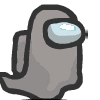
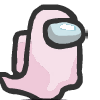
TOU SUPPORT

diff --git a/src/common/cosmetics.ts b/src/common/cosmetics.ts
@@ -172,7 +172,6 @@ import skin16 from "../static/skins/16.png"; // @ts-ignore
 import skin17 from "../static/skins/17.png"; // @ts-ignore
 import skin18 from "../static/skins/18.png"; // @ts-ignore
 
-
 // @ts-ignore
 import none_player0 from "../static/players/none/player/0.png"; // @ts-ignore
 import none_player1 from "../static/players/none/player/1.png"; // @ts-ignore
@@ -238,6 +237,13 @@ import ToU_player16 from "../static/players/ToU/player/16.png"; // @ts-ignore
 import ToU_player17 from "../static/players/ToU/player/17.png"; // @ts-ignore
 import ToU_player18 from "../static/players/ToU/player/18.png"; // @ts-ignore
 import ToU_player19 from "../static/players/ToU/player/19.png"; // @ts-ignore
+import ToU_player20 from "../static/players/ToU/player/20.png"; // @ts-ignore
+import ToU_player21 from "../static/players/ToU/player/21.png"; // @ts-ignore
+import ToU_player22 from "../static/players/ToU/player/22.png"; // @ts-ignore
+import ToU_player23 from "../static/players/ToU/player/23.png"; // @ts-ignore
+import ToU_player24 from "../static/players/ToU/player/24.png"; // @ts-ignore
+import ToU_player25 from "../static/players/ToU/player/25.png"; // @ts-ignore
+import ToU_player26 from "../static/players/ToU/player/26.png"; // @ts-ignore
 
 import OtherRoles_player0 from "../static/players/OtherRoles/player/0.png"; // @ts-ignore
 import OtherRoles_player1 from "../static/players/OtherRoles/player/1.png"; // @ts-ignore
@@ -335,6 +341,13 @@ import ToU_ghost16 from "../static/players/ToU/ghost/16.png"; // @ts-ignore
 import ToU_ghost17 from "../static/players/ToU/ghost/17.png"; // @ts-ignore
 import ToU_ghost18 from "../static/players/ToU/ghost/18.png"; // @ts-ignore
 import ToU_ghost19 from "../static/players/ToU/ghost/19.png"; // @ts-ignore
+import ToU_ghost20 from "../static/players/ToU/ghost/20.png"; // @ts-ignore
+import ToU_ghost21 from "../static/players/ToU/ghost/21.png"; // @ts-ignore
+import ToU_ghost22 from "../static/players/ToU/ghost/22.png"; // @ts-ignore
+import ToU_ghost23 from "../static/players/ToU/ghost/23.png"; // @ts-ignore
+import ToU_ghost24 from "../static/players/ToU/ghost/24.png"; // @ts-ignore
+import ToU_ghost25 from "../static/players/ToU/ghost/25.png"; // @ts-ignore
+import ToU_ghost26 from "../static/players/ToU/ghost/26.png"; // @ts-ignore
 
 import OtherRoles_ghost0 from "../static/players/OtherRoles/ghost/0.png"; // @ts-ignore
 import OtherRoles_ghost1 from "../static/players/OtherRoles/ghost/1.png"; // @ts-ignore
@@ -447,7 +460,7 @@ export const coloredHats: { [key in string]: string | undefined } = {
   90_15: hat90_15,
   90_16: hat90_16,
   90_17: hat90_17,
-}
+};
 
 export const hats = [
   undefined,
@@ -601,6 +614,12 @@ export const playerColors = {
     ["#71491e", "#5e2615"],
     ["#38ffdd", "#24a9bf"],
     ["#50f039", "#15a842"],
+    ["#5f1d2e", "#410f1a"],
+    ["#ecc0d3", "#de92b3"],
+    ["#f0e7a8", "#d2bc89"],
+    ["#758593", "#465664"],
+    ["#918877", "#51413e"],
+    ["#d76464", "#b44362"],
     ["#a8323e", "#651e25"],
     ["#3c302c", "#1e1816"],
     ["#3d81ff", "#1f4180"],
@@ -609,6 +628,7 @@ export const playerColors = {
     ["#3dffb5", "#1f805b"],
     ["#baa1ff", "#5d5180"],
     ["#000000", "#000000"],
+    ["#01a6ff", "#116897"],
   ],
   TOWN_OF_IMPOSTORS: [
     ["#c61111", "#7a0838"],
@@ -669,7 +689,6 @@ export const playerColors = {
     ["#a8dfff", "#599fc8"],
   ],
 };
-
 
 export const players = {
   NONE: {
@@ -791,6 +810,13 @@ export const players = {
       ToU_player17,
       ToU_player18,
       ToU_player19,
+      ToU_player20,
+      ToU_player21,
+      ToU_player22,
+      ToU_player23,
+      ToU_player24,
+      ToU_player25,
+      ToU_player26,
     ],
     dead: [
       ToU_ghost0,
@@ -813,6 +839,13 @@ export const players = {
       ToU_ghost17,
       ToU_ghost18,
       ToU_ghost19,
+      ToU_ghost20,
+      ToU_ghost21,
+      ToU_ghost22,
+      ToU_ghost23,
+      ToU_ghost24,
+      ToU_ghost25,
+      ToU_ghost26,
     ],
   },
   THE_OTHER_ROLES: {
@@ -923,8 +956,8 @@ function getModHat(color: number, id = -1, mod: string) {
   return hat
     ? `${MODHATS_BASE}/${mod}/${multiColor}${hat}`
     : hats[id]
-      ? hats[id]
-      : undefined;
+    ? hats[id]
+    : undefined;
 }
 
 export interface HatDementions {
@@ -967,5 +1000,7 @@ export function getCosmetic(
   if (type === cosmeticType.hat && mod !== "NONE") {
     return getModHat(color, id, mod);
   }
-  return type === cosmeticType.hat ? coloredHats[`${id}${color}`] || hats[id] : skins[id];
+  return type === cosmeticType.hat
+    ? coloredHats[`${id}${color}`] || hats[id]
+    : skins[id];
 }

diff --git a/src/Avatar.tsx b/src/Avatar.tsx
@@ -215,7 +215,7 @@ function Canvas({
             }}
           />
           <img
-            src={getCosmetic(color, isAlive, cosmeticType.skin, hat, mod)}
+            src={getCosmetic(color, isAlive, cosmeticType.skin, skin, mod)}
             ref={skinImg}
             style={{ top: skin === 17 ? "0%" : undefined }}
             className={classes.skin}
